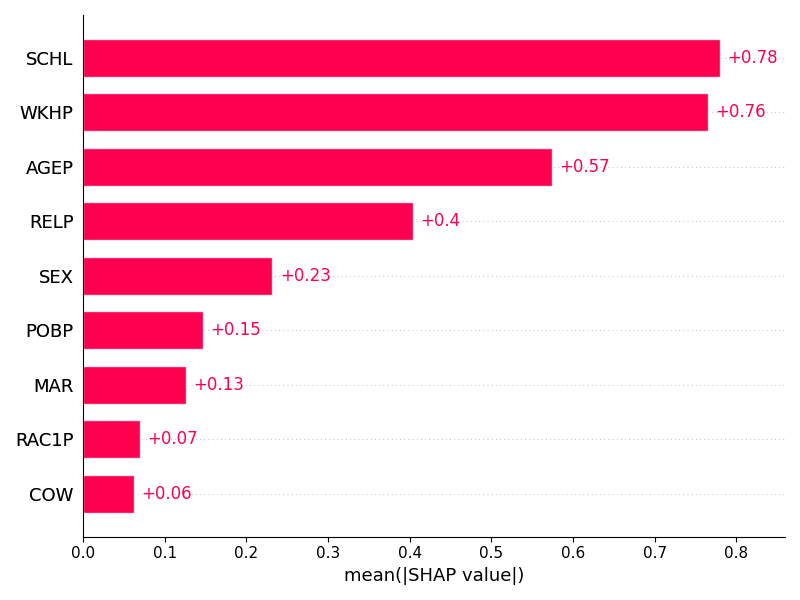
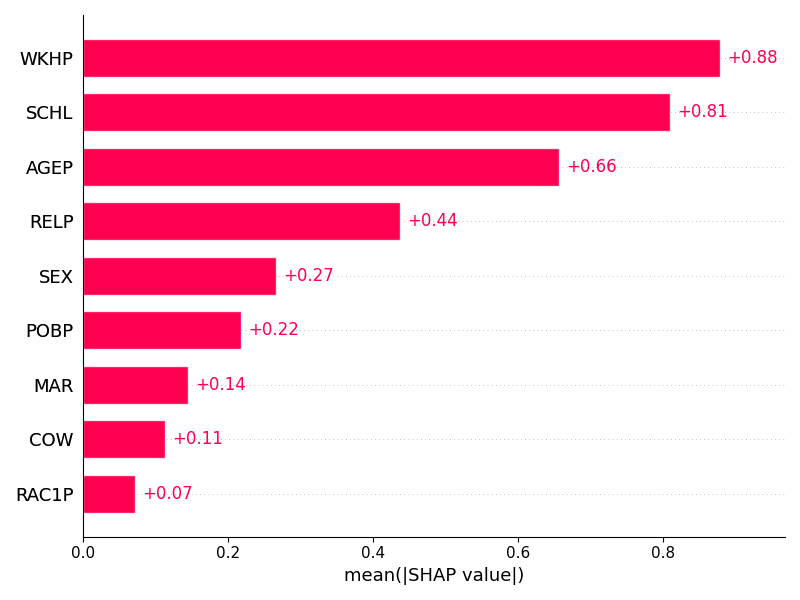
le md ne s'arrete plus !

diff --git a/main.py b/main.py
@@ -205,6 +205,8 @@ def evaluate_with_cross_validation(classifier, X_train, y_train, X_test, y_test,
     print(matrix)
     print()
 
+    return estimator
+
 
 def evaluate_with_gridsearch(classifier, param_grid, X_train, y_train, X_test, y_test, n_fold=5):
 
@@ -410,10 +412,10 @@ if __name__ == "__main__":
     # evaluate_with_gridsearch(AdaBoostClassifier(), param_grid_ada, X_train, y_train, X_test, y_test)
     # evaluate_with_gridsearch(GradientBoostingClassifier(), param_grid_gx, X_train, y_train, X_test, y_test)
 
-    evaluate_with_cross_validation(RandomForestClassifier(max_depth=14, min_samples_split=11, n_estimators=150), X_train, y_train, X_test, y_test)
-    evaluate_with_cross_validation(AdaBoostClassifier(estimator=DecisionTreeClassifier(max_depth=3), n_estimators=800, learning_rate=0.5), X_train, y_train, X_test, y_test)
-    evaluate_with_cross_validation(GradientBoostingClassifier(n_estimators=400, learning_rate=0.1, max_depth=4, min_samples_split=2, subsample=0.6), X_train, y_train, X_test, y_test)
+    # evaluate_with_cross_validation(RandomForestClassifier(max_depth=14, min_samples_split=11, n_estimators=150), X_train, y_train, X_test, y_test)
+    # evaluate_with_cross_validation(AdaBoostClassifier(estimator=DecisionTreeClassifier(max_depth=3), n_estimators=800, learning_rate=0.5), X_train, y_train, X_test, y_test)
+    model = evaluate_with_cross_validation(GradientBoostingClassifier(n_estimators=400, learning_rate=0.1, max_depth=4, min_samples_split=2, subsample=0.6), X_train, y_train, X_test, y_test)
 
-    # explain(model, 10, X_train, X_test, y_train, y_test)
+    explain(model, 10, X_train, X_test, y_train, y_test)
 
     

diff --git a/CR-TP-ML.md b/CR-TP-ML.md
@@ -212,12 +212,25 @@ Résultats / Commentaires / Analyses :
 |-------------------------|-----------|-----------|-----------|-----------|-----------|-----------|-----------|-----------|-----------|
 
 ## Modèle choisi pour la suite : 
-* quel modèle : 
-* pourquoi ? 
+* quel modèle : On choisit le modèle GradientBoosting avec les hyperparamètre optimaux que l'on a récupéré avec la méthode GridSearch. 
+* C'est le modèle qui nous donne la meilleure précision sur le jeu de test quel que soit sa taille.
 
 ## Explicabilité : "permutation feature importance"
 
+* Explication de la méthode : pour chacune des colonnes, on mélange aléatoirement les valeurs des différentes lignes. On compare ensuite la précision obtenue avant et après mélange. Plus la précision diminue, plus la feature est importante, car utiliser la mauvaise valeur aura eu un gros impact sur la prédiction. Inversement, si utiliser une valeur aléatoire n'a que très peu d'impact sur la prédiction, cela signifie que la feature n'est pas importante.
+
 * Résultats obtenus : 
+  Feature  Importance Mean  Importance Std
+2    SCHL         0.088920        0.001626
+6    WKHP         0.080542        0.001388
+0    AGEP         0.041883        0.001552
+5    RELP         0.025041        0.001122
+1     COW         0.009148        0.000893
+7     SEX         0.008330        0.000915
+4    POBP         0.007689        0.000846
+3     MAR         0.003458        0.000656
+8   RAC1P         0.003446        0.000703
+
 * Analyses :
 
 ## Explicabilité : avec LIME et SHAP
